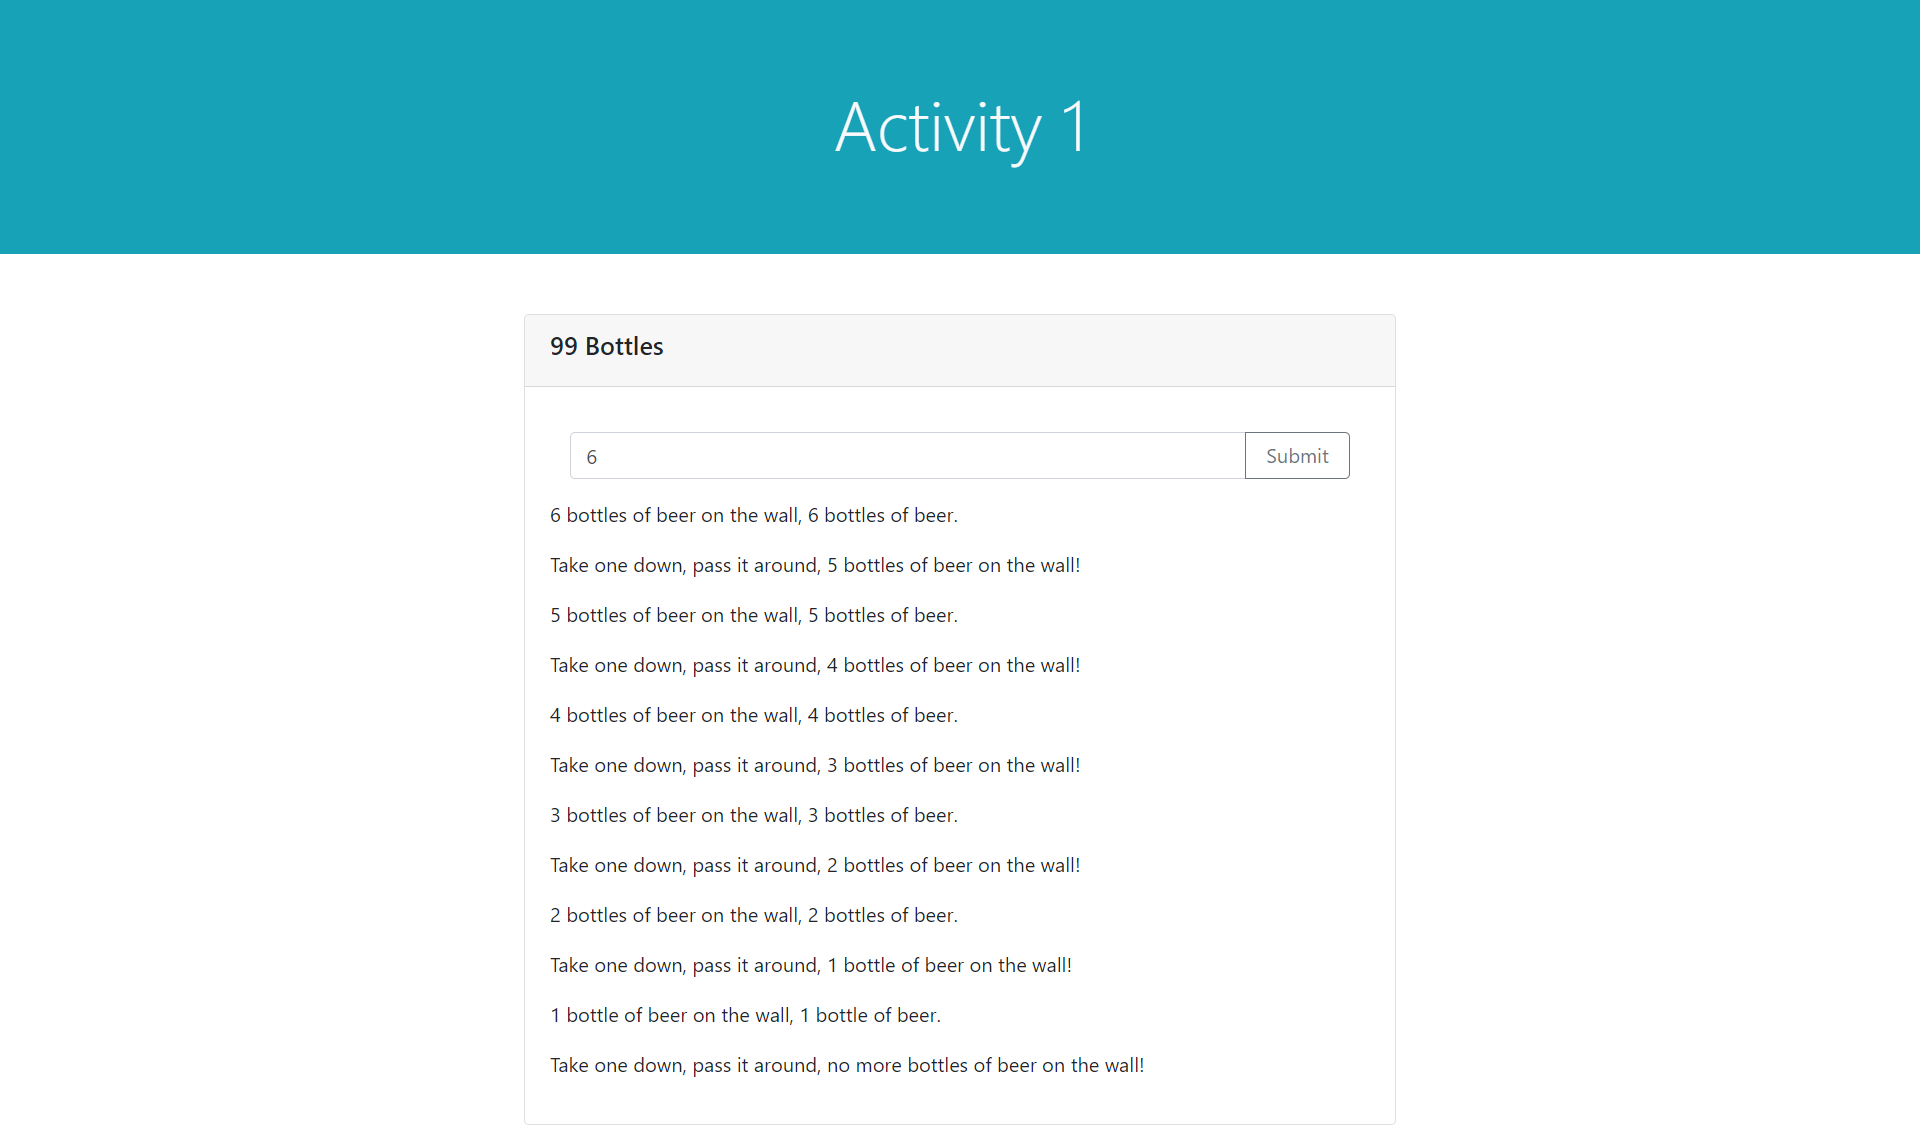
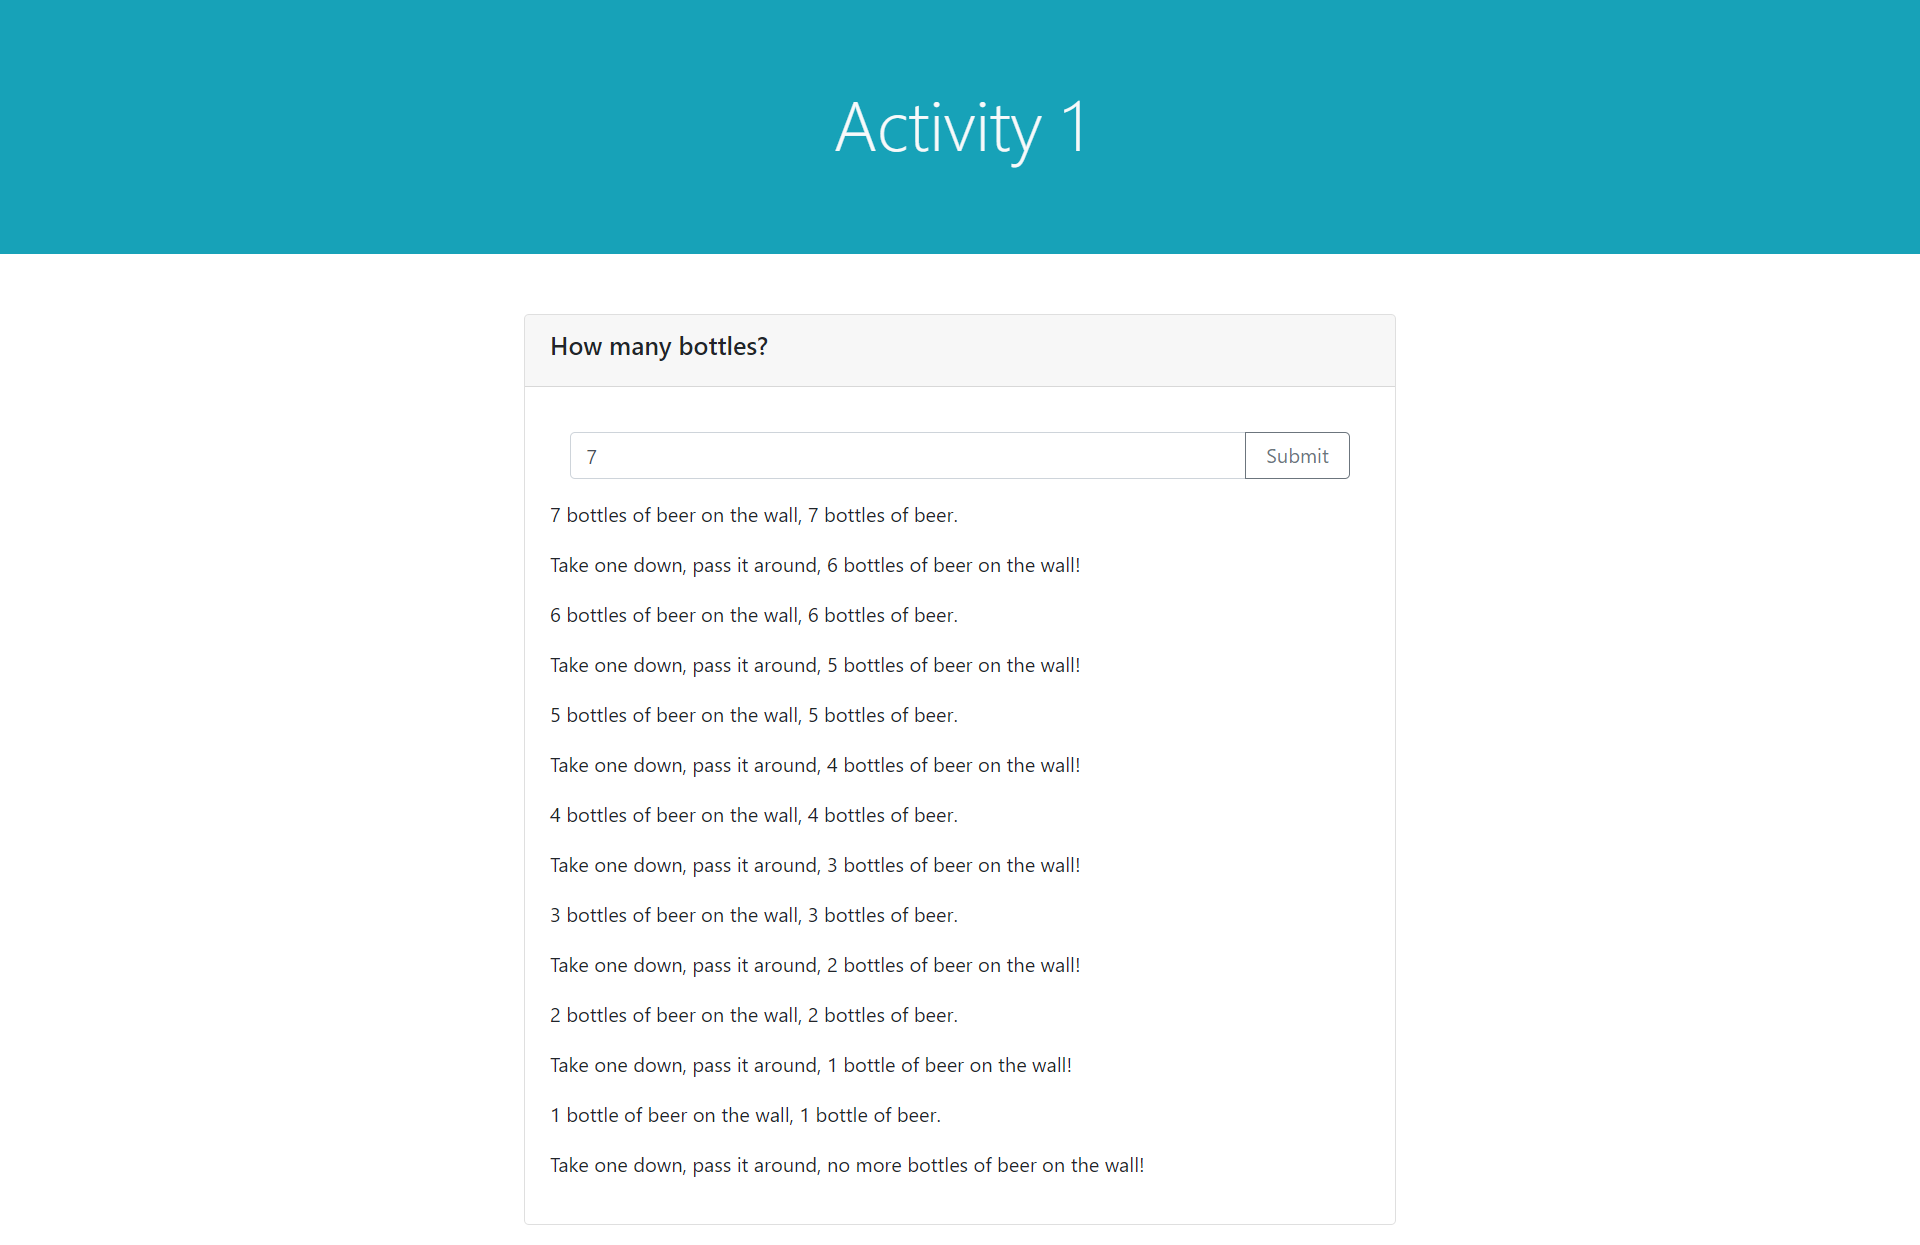
update 1st activity

diff --git a/08 - Algorithms/01/index.html b/08 - Algorithms/01/index.html
@@ -19,7 +19,7 @@
         <div class="col">
           <div class="card m-3">
             <div class="card-header">
-              <h5>99 Bottles</h5>
+              <h5>How many bottles?</h5>
             </div>
             <div class="card-body">
               <form class="form mx-3 mt-3">
@@ -30,7 +30,8 @@
                   </div>
                 </div>
               </form>
-              <h5 class="text-center" id="output-area">&nbsp;</h5>
+              <!-- Output Area -->
+              <p id="output-area"></p>
             </div>
           </div>
         </div>

diff --git a/08 - Algorithms/01/solution/index.html b/08 - Algorithms/01/solution/index.html
@@ -19,7 +19,7 @@
         <div class="col">
           <div class="card m-3">
             <div class="card-header">
-              <h5>99 Bottles</h5>
+              <h5>How many bottles?</h5>
             </div>
             <div class="card-body">
               <form class="form mx-3 mt-3">
@@ -30,7 +30,8 @@
                   </div>
                 </div>
               </form>
-              <p class="text-left" id="output-area">&nbsp;</p>
+              <!-- Output Area -->
+              <p id="output-area"></p>
             </div>
           </div>
         </div>

diff --git a/08 - Algorithms/02/index.html b/08 - Algorithms/02/index.html
@@ -23,7 +23,6 @@
             <h5>Factorial!</h5>
           </div>
           <div class="card-body">
-            <h5 class="text-center" id="output-area">&nbsp;</h5>
             <form class="form mx-3 mt-3">
               <div class="input-group mb-3">
                 <input type="number" class="form-control">
@@ -32,6 +31,8 @@
                 </div>
               </div>
             </form>
+            <!-- Output Area -->
+            <h5 class="text-center" id="output-area"></h5>
           </div>
         </div>
       </div>

diff --git a/08 - Algorithms/02/solution/index.html b/08 - Algorithms/02/solution/index.html
@@ -23,7 +23,6 @@
             <h5>Factorial!</h5>
           </div>
           <div class="card-body">
-            <h5 class="text-center" id="output-area">&nbsp;</h5>
             <form class="form mx-3 mt-3">
               <div class="input-group mb-3">
                 <input type="number" class="form-control">
@@ -32,6 +31,8 @@
                 </div>
               </div>
             </form>
+            <!-- Output Area -->
+            <h5 class="text-center" id="output-area"></h5>
           </div>
         </div>
       </div>

diff --git a/08 - Algorithms/03/index.html b/08 - Algorithms/03/index.html
@@ -23,7 +23,6 @@
             <h5>Factorial!</h5>
           </div>
           <div class="card-body">
-            <h5 class="text-center" id="output-area">&nbsp;</h5>
             <form class="form mx-3 mt-3">
               <div class="input-group mb-3">
                 <input type="number" class="form-control">
@@ -32,6 +31,7 @@
                 </div>
               </div>
             </form>
+            <h5 class="text-center" id="output-area"></h5>
           </div>
         </div>
       </div>

diff --git a/08 - Algorithms/03/README.md b/08 - Algorithms/03/README.md
@@ -1,6 +1,6 @@
-# Factorial
+# Fibonacci
 
-### In this activity, we're going to be writing a function to find the factorial of a number provided by the user. The factorial of a number is the product of all positive integers less than or equal to the number. For example:
+### In this activity, we're going to be writing a function to find a given number inside the fibo
 
 > 6! = 6 * 5 * 4 * 3 * 2 * 1
 
